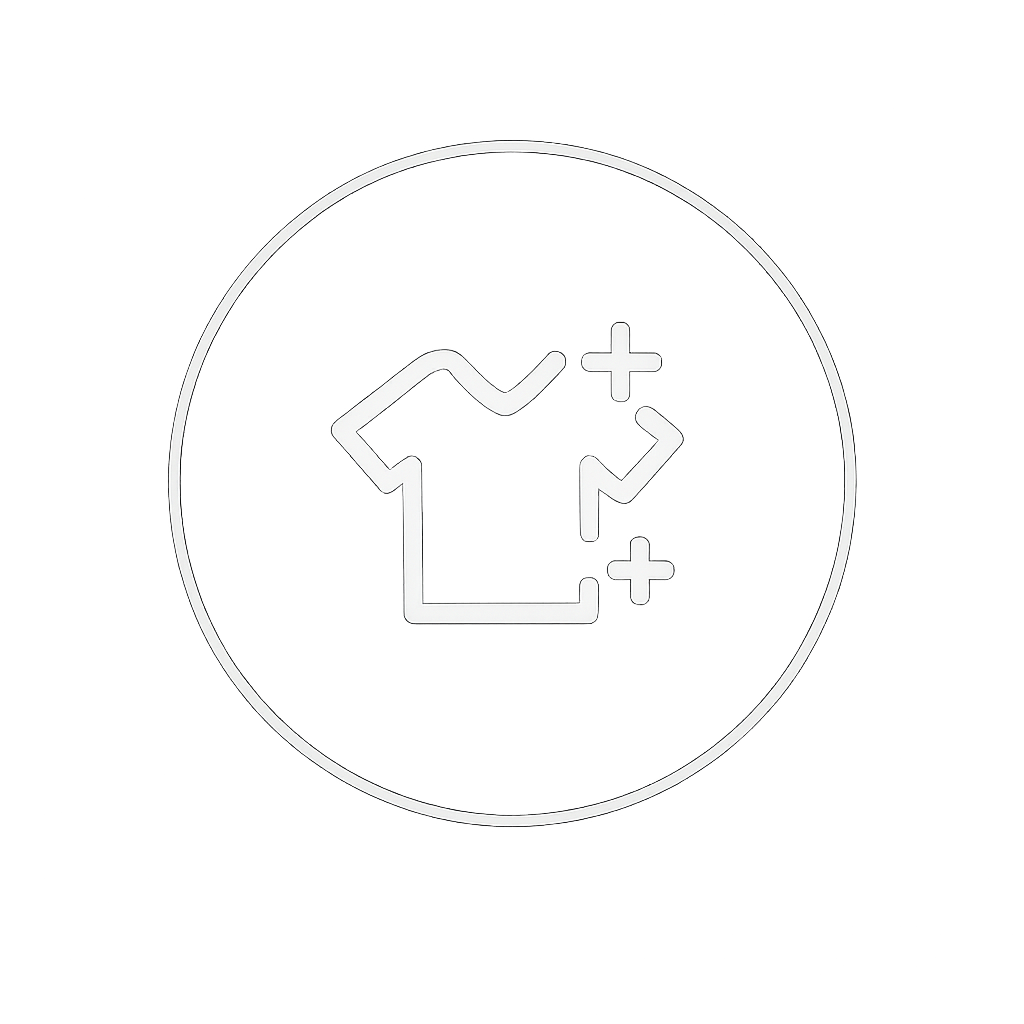
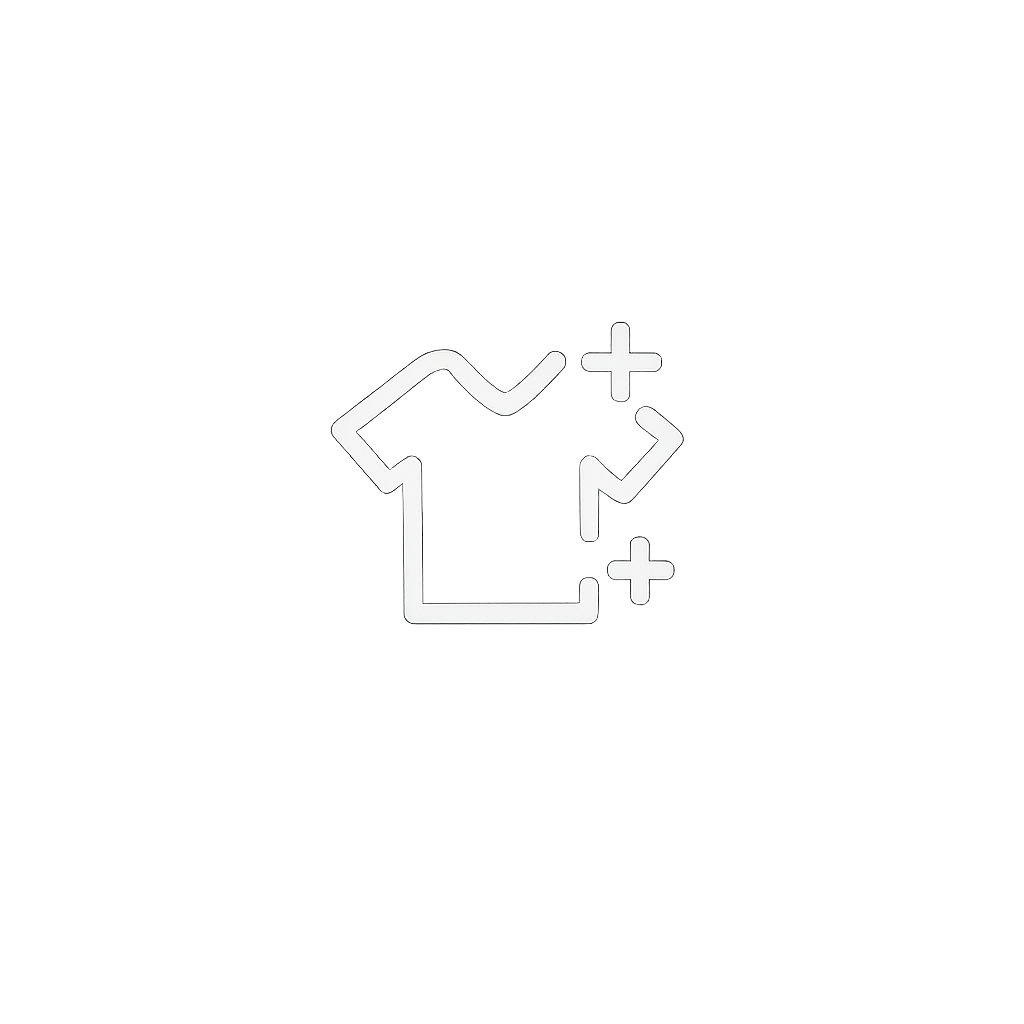
feat: button fix

diff --git a/app/page.tsx b/app/page.tsx
@@ -325,7 +325,7 @@ export default function HomePage() {
         <img
           src="/gen_button/FLOATING%20BUTTON.png"
           alt="Open Design Lab"
-          className="w-full h-full object-contain filter drop-shadow-xl relative z-10"
+          className="w-full h-full object-contain filter drop-shadow-xl relative z-10 scale-[1.35] transition-transform duration-300 group-hover:scale-[1.45]"
         />
       </Link>
 